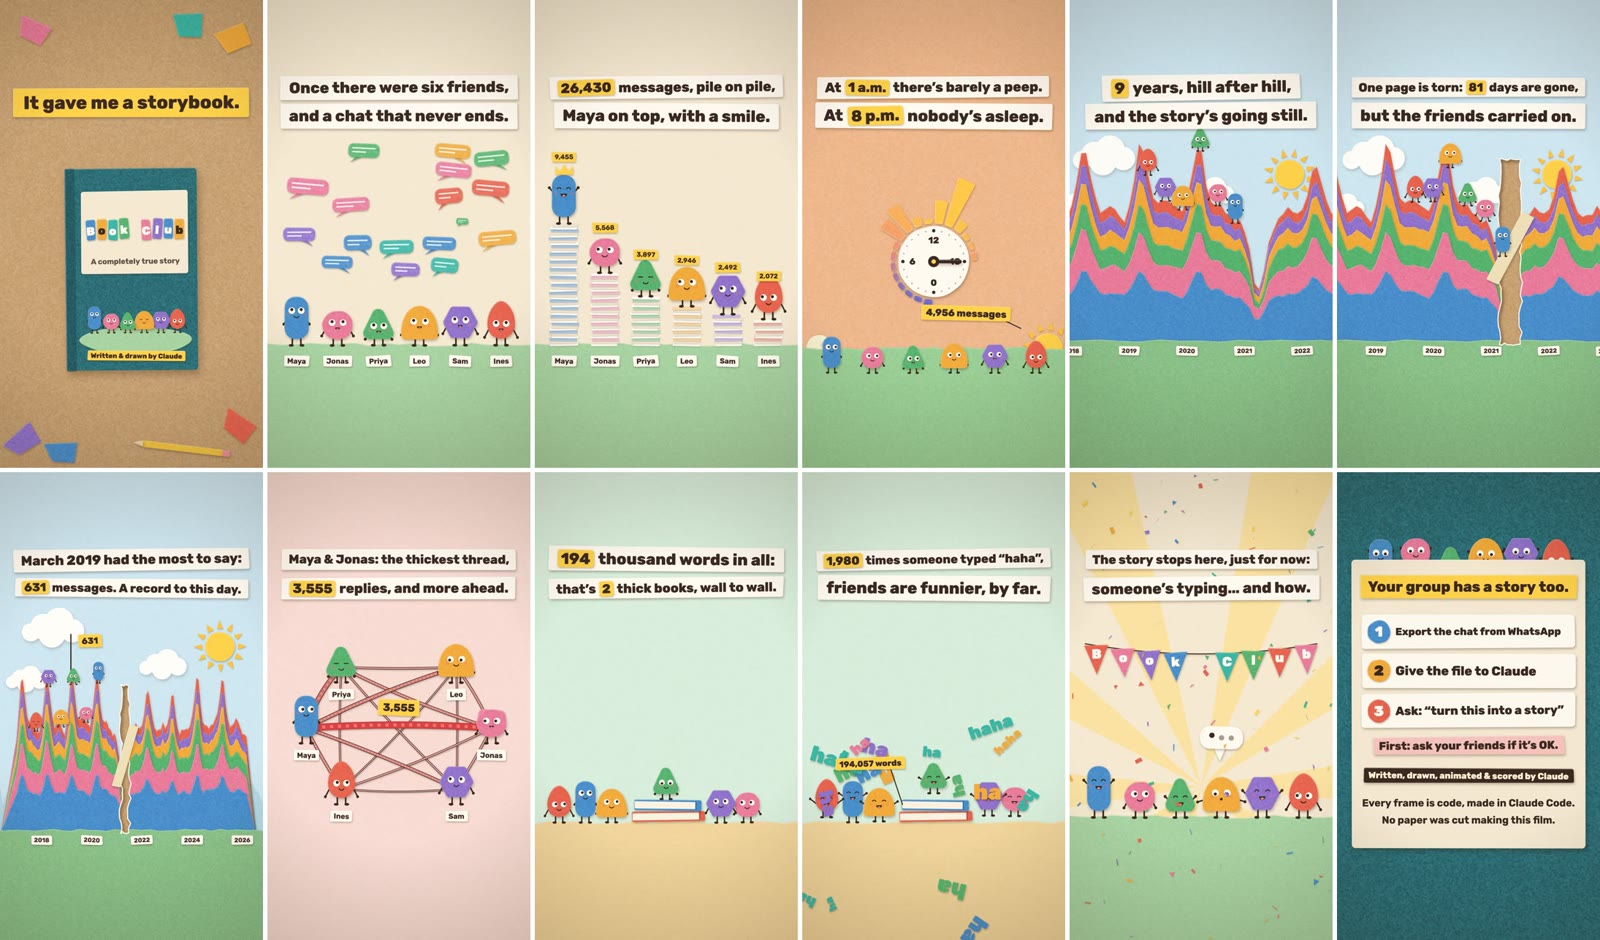
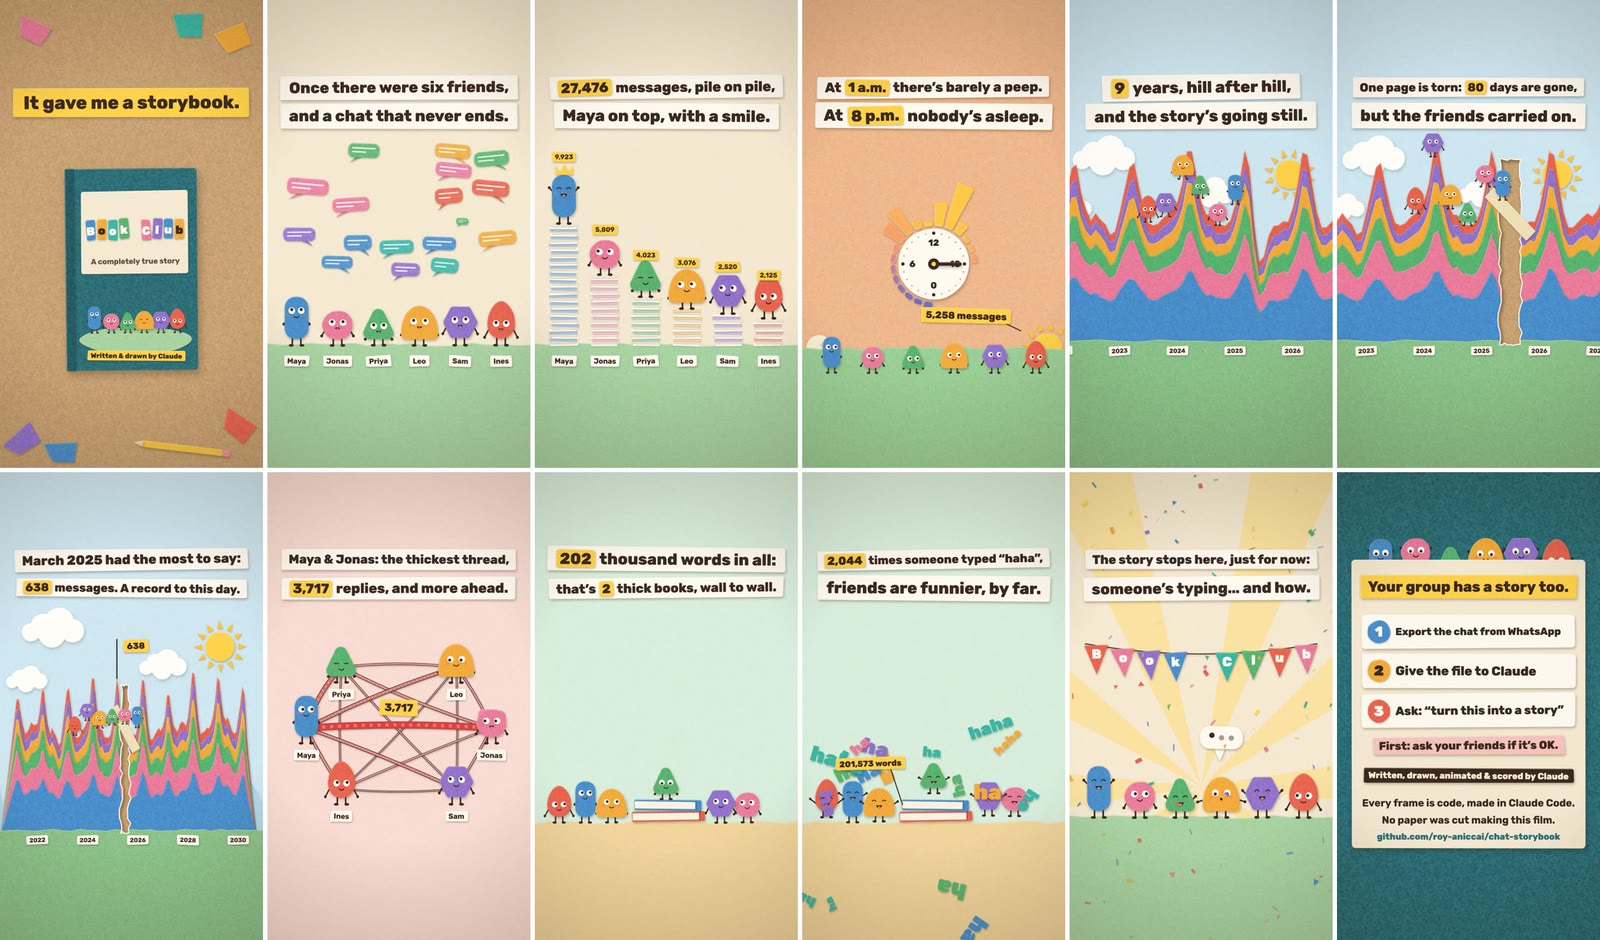
Show where to get the skill on the closing card
The last card now ends with the repository address, set by `link` in
the copy pack; an empty string leaves it out.

diff --git a/skills/chat-storybook/scripts/film.tpl.html b/skills/chat-storybook/scripts/film.tpl.html
@@ -721,6 +721,8 @@ function sCta(){
   if(kc>=0){
     strip(CP.credit,540,1246,{k:kc,size:59,col:INK,ink:'#fff3d6',seed:73,maxW:900});
     if(kc>=4){g.save();g.direction=DIR;g.textAlign='center';g.fillStyle=INK;fit(CP.code[0],42,700,880);g.fillText(CP.code[0],540,1372);if(kc>=8){fit(CP.code[1],42,700,880);g.fillText(CP.code[1],540,1442)}g.restore()}
+    // the address of the skill, always left to right
+    if(kc>=14&&CP.link){g.save();g.direction='ltr';g.textAlign='center';g.fillStyle=TEAL;fit(CP.link,36,800,860);g.fillText(CP.link,540,1508);g.restore()}
   }
   subtitle(E7);
 }

diff --git a/skills/chat-storybook/scripts/film.py b/skills/chat-storybook/scripts/film.py
@@ -286,6 +286,7 @@ def build_copy(pack, story):
         out[k] = c.plain(pack[k])
     for k in PLAIN_LISTS:
         out[k] = [c.plain(s) for s in pack[k]]
+    out["link"] = str(pack.get("link") or "")  # optional: where to get the skill
     return out
 
 

diff --git a/README.md b/README.md
@@ -75,7 +75,7 @@ Both scripts list their flags with `--help`.
 
 ## Make it yours
 
-The film says on its cover that Claude wrote and drew it, and its last ten seconds are a card that invites other people to try this with their own chat. `--no-outro` ends the film at 0:55, just before the page turns to that card. The cover line is `byline` in the copy pack.
+The film says on its cover that Claude wrote and drew it, and its last ten seconds are a card that invites other people to try this with their own chat. `--no-outro` ends the film at 0:55, just before the page turns to that card. The cover line is `byline` in the copy pack. The address under the credits is `link`; set it to `""` to leave it out.
 
 The wording lives in `scripts/copy/en.json` and `scripts/copy/he.json`. Copy one, edit the lines, and pass it with `--copy my.json`. Keep the same number of lines in each caption block.
 
